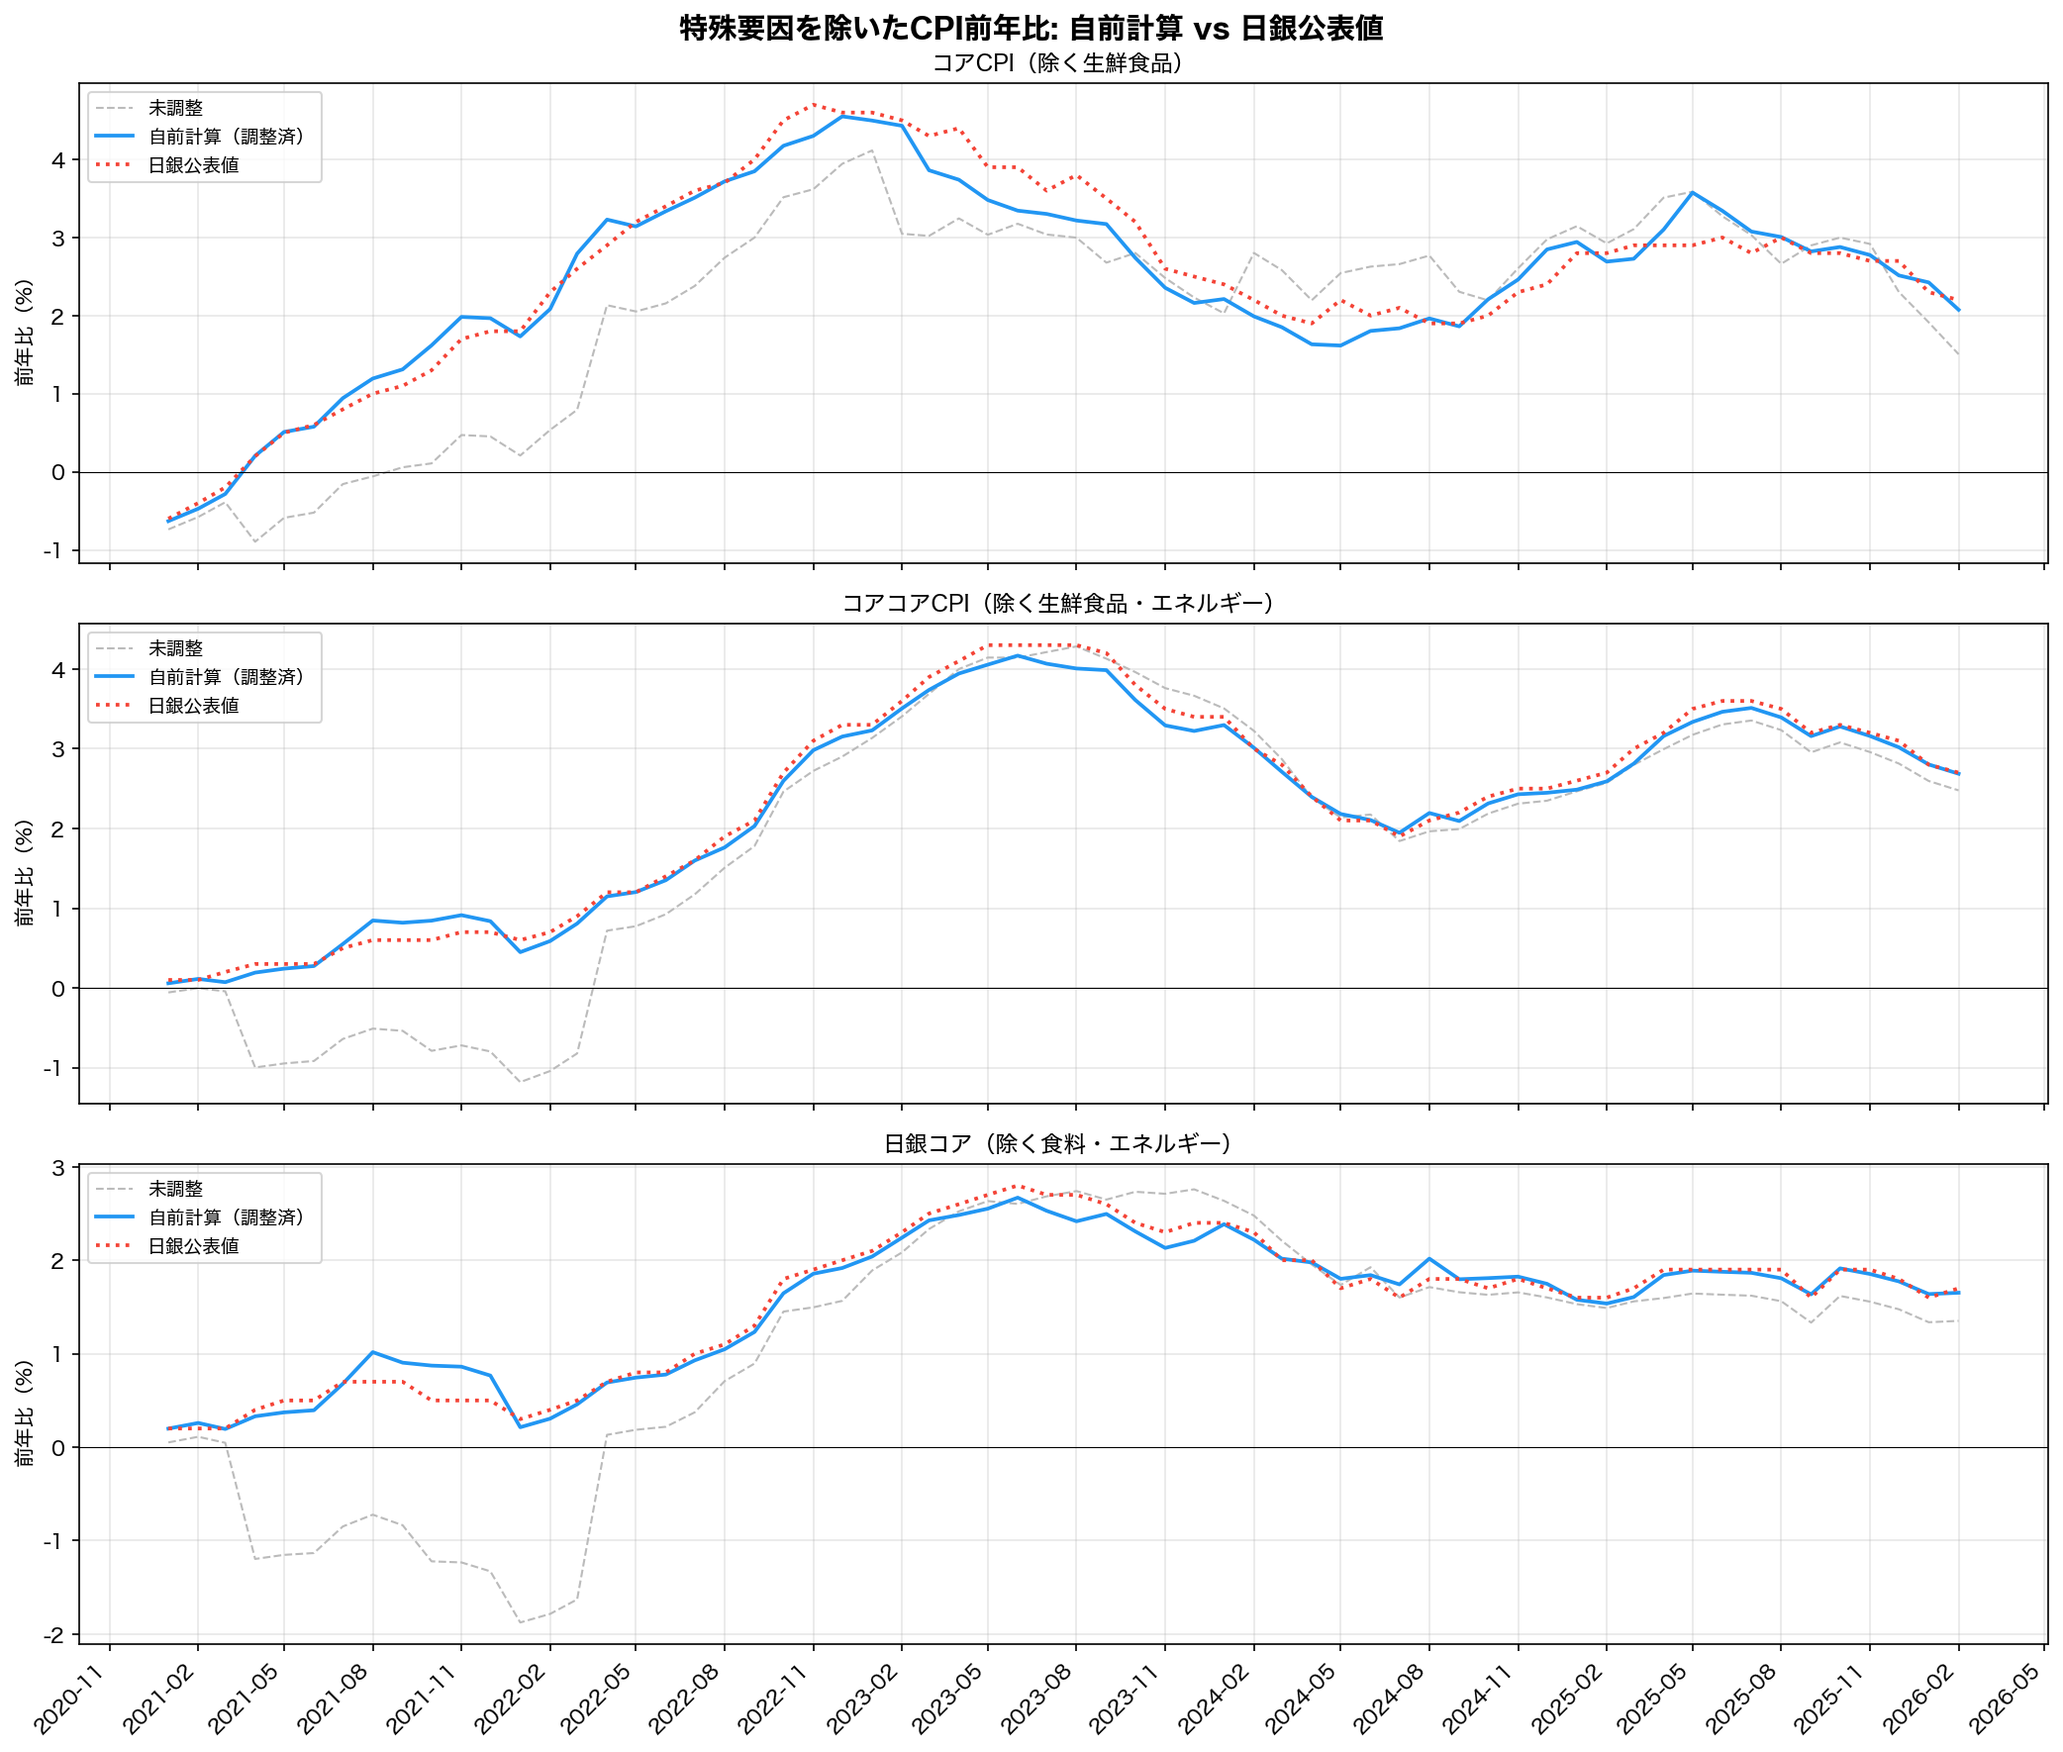
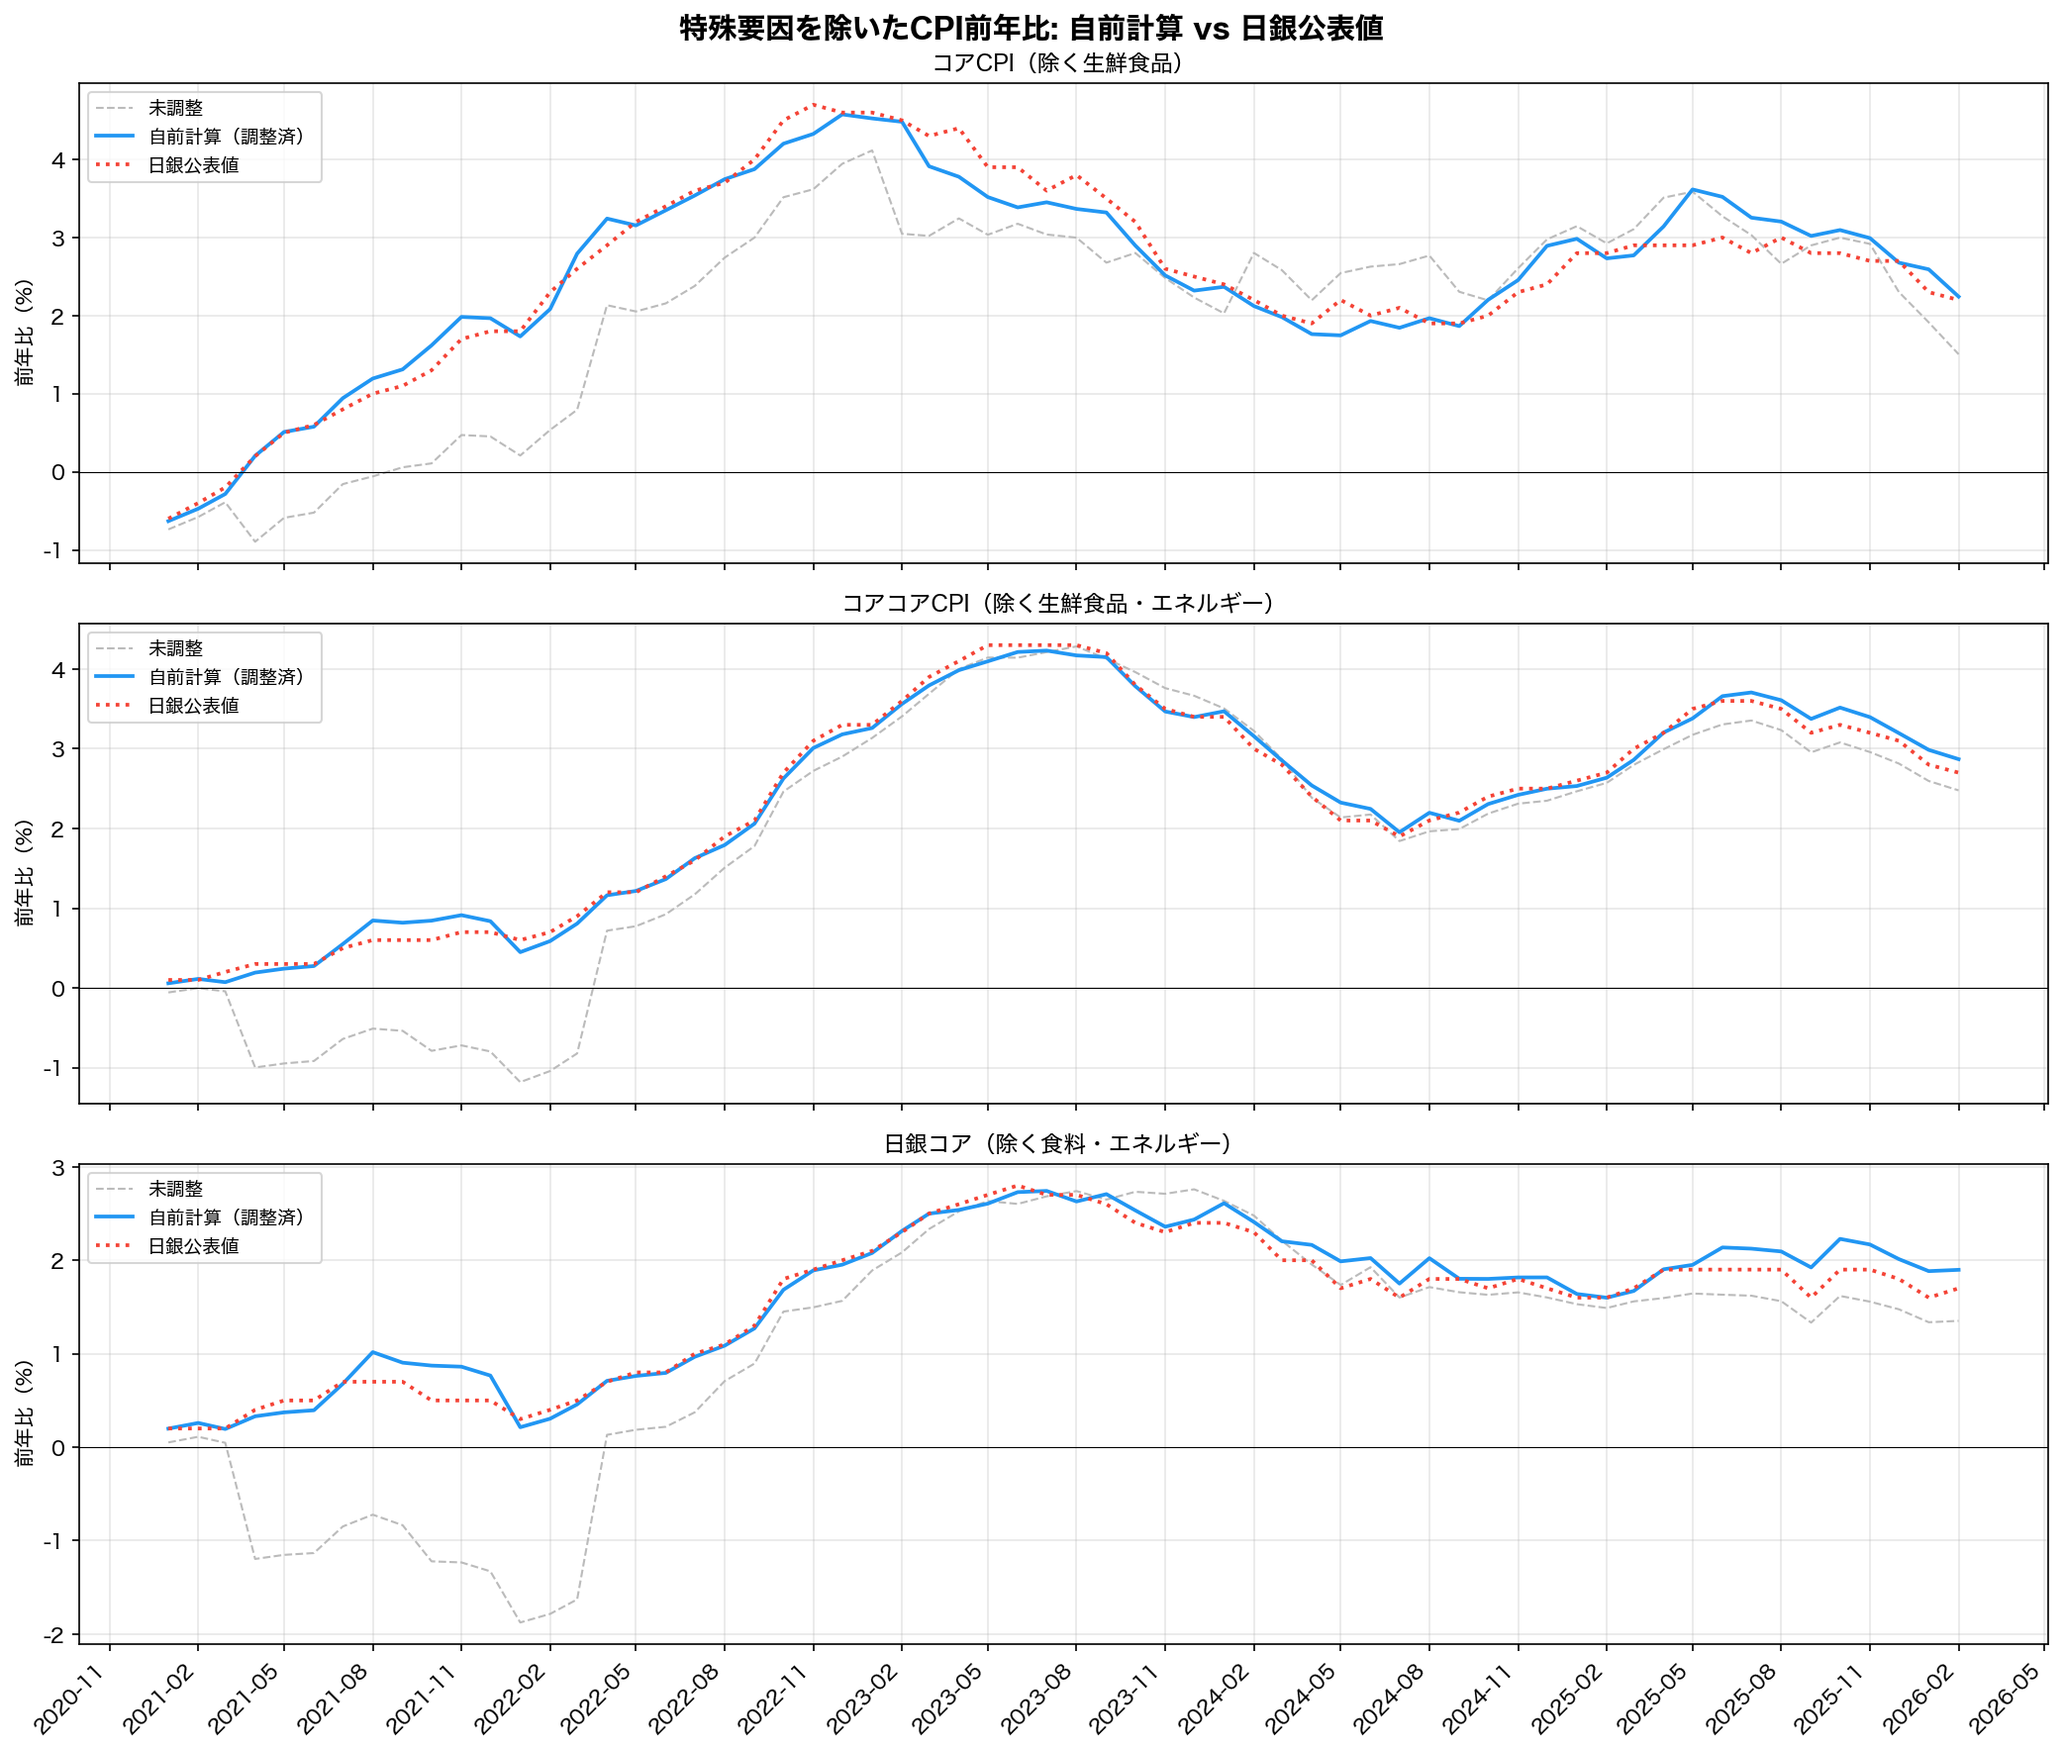
携帯通信料を保合+前月比延長方式に改修
旧: 固定段差52.4ptを恒久加算（直近の前年比が実績と乖離）
新: 急落期間は保合、安定後は前月比で延長
    → 直近の前年比が実績と一致し、自然な価格変動をそのまま反映

diff --git a/src/adjust_interpolation.py b/src/adjust_interpolation.py
@@ -22,11 +22,15 @@ import pandas as pd
 
 
 def adjust_mobile(cpi_index: pd.Series) -> pd.Series:
-    """携帯通信料の調整（恒久的レベルシフト除去）
+    """携帯通信料の調整（保合＋前月比延長方式）
 
-    急落前（2021-03: 99.4）と安定後（2022-01: 47.0）の段差を:
-    1. 過渡期は線形補間
-    2. 安定後は恒久的に加算
+    1. 急落前（〜2021-03）: 実績値そのまま
+    2. 急落期間（2021-04〜2021-12）: 急落前水準で保合（横ばい）
+    3. 安定後（2022-01〜）: 実績の前月比で延長
+       adjusted[t] = adjusted[t-1] × actual[t] / actual[t-1]
+
+    恒久的な固定段差加算ではなく、安定後の自然な価格変動を
+    調整済水準からの前月比で反映する。
     """
     adjusted = cpi_index.copy()
     all_months = list(cpi_index.index)
@@ -37,28 +41,20 @@ def adjust_mobile(cpi_index: pd.Series) -> pd.Series:
         return adjusted
 
     val_start = cpi_index[start_ym]  # 急落前水準
-    val_end = cpi_index[end_ym]      # 安定後水準
-    step = val_start - val_end        # 段差（正値）
-
     i_start = all_months.index(start_ym)
     i_end = all_months.index(end_ym)
-    n_months = i_end - i_start
 
     for i in range(len(all_months)):
-        ym = all_months[i]
-        if ym <= start_ym:
-            # 急落前: 調整なし
+        if i <= i_start:
+            # 急落前: 実績値
             pass
-        elif i < i_end:
-            # 過渡期: 線形補間（急落前水準から段差加算後の安定水準へスムーズに移行）
-            t = (i - i_start) / n_months
-            # 補間: 急落前水準から、安定後+段差の水準へスムーズに移行
-            target_start = val_start
-            target_end = val_end + step
-            adjusted.iloc[i] = target_start + (target_end - target_start) * t
+        elif i <= i_end:
+            # 急落期間: 保合（急落前水準を維持）
+            adjusted.iloc[i] = val_start
         else:
-            # 安定後: 段差を恒久的に加算
-            adjusted.iloc[i] = cpi_index.iloc[i] + step
+            # 安定後: 前月比で延長
+            mom = cpi_index.iloc[i] / cpi_index.iloc[i - 1]
+            adjusted.iloc[i] = adjusted.iloc[i - 1] * mom
 
     return adjusted
 
